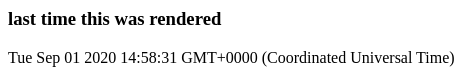
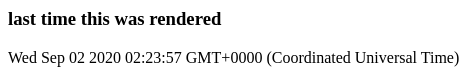
Updated markdown files

Changed region(s): [[0.0, 0.6667, 0.9978, 0.9067], [0.0, 0.16, 0.4838, 0.3467]]

diff --git a/examples/javascript.md b/examples/javascript.md
@@ -17,14 +17,14 @@ console.table(table);
 ``` markdown-code-runner output
 the javascript code is run in node
 it can do maths
-14610.930712448044
+16567.52038096267
 and can render a table
 ┌─────────┬──────────┬───────┐
 │ (index) │   name   │ yummy │
 ├─────────┼──────────┼───────┤
-│    0    │ 'chips'  │   6   │
-│    1    │ 'pizza'  │   3   │
-│    2    │ 'burger' │   9   │
+│    0    │ 'chips'  │   4   │
+│    1    │ 'pizza'  │   5   │
+│    2    │ 'burger' │   4   │
 └─────────┴──────────┴───────┘
 ```
 
@@ -50,5 +50,5 @@ fetch('https://api.kanye.rest/')
 
 ``` markdown-code-runner output
 Kanye West quote:
-Just stop lying about shit. Just stop lying.
+My dad got me a drone for Christmas
 ```

diff --git a/examples/bash.md b/examples/bash.md
@@ -9,8 +9,8 @@ echo date: $(date)
 ```
 
 ``` markdown-code-runner output
-hostname: fv-az54
+hostname: fv-az56
 shell: /bin/bash
 ls: LICENSE README.4.png README.md action.yml dist examples node_modules package.json setup-and-run.js src tsconfig.json yarn.lock
-date: Tue Sep 1 14:57:17 UTC 2020
+date: Wed Sep 2 02:22:44 UTC 2020
 ```

diff --git a/README.md b/README.md
@@ -17,7 +17,7 @@ console.log('hello world from typescript')
 
 ``` markdown-code-runner output
 
-> 13192032@1.0.0 start /tmp/13192032
+> 47581551@1.0.0 start /tmp/47581551
 > ts-node index.ts
 
 hello world from typescript

diff --git a/examples/typescript.md b/examples/typescript.md
@@ -10,7 +10,7 @@ console.log(hey("nick"));
 
 ``` markdown-code-runner output
 
-> 45022846@1.0.0 start /tmp/45022846
+> 8989509@1.0.0 start /tmp/8989509
 > ts-node index.ts
 
 Hello, nick
